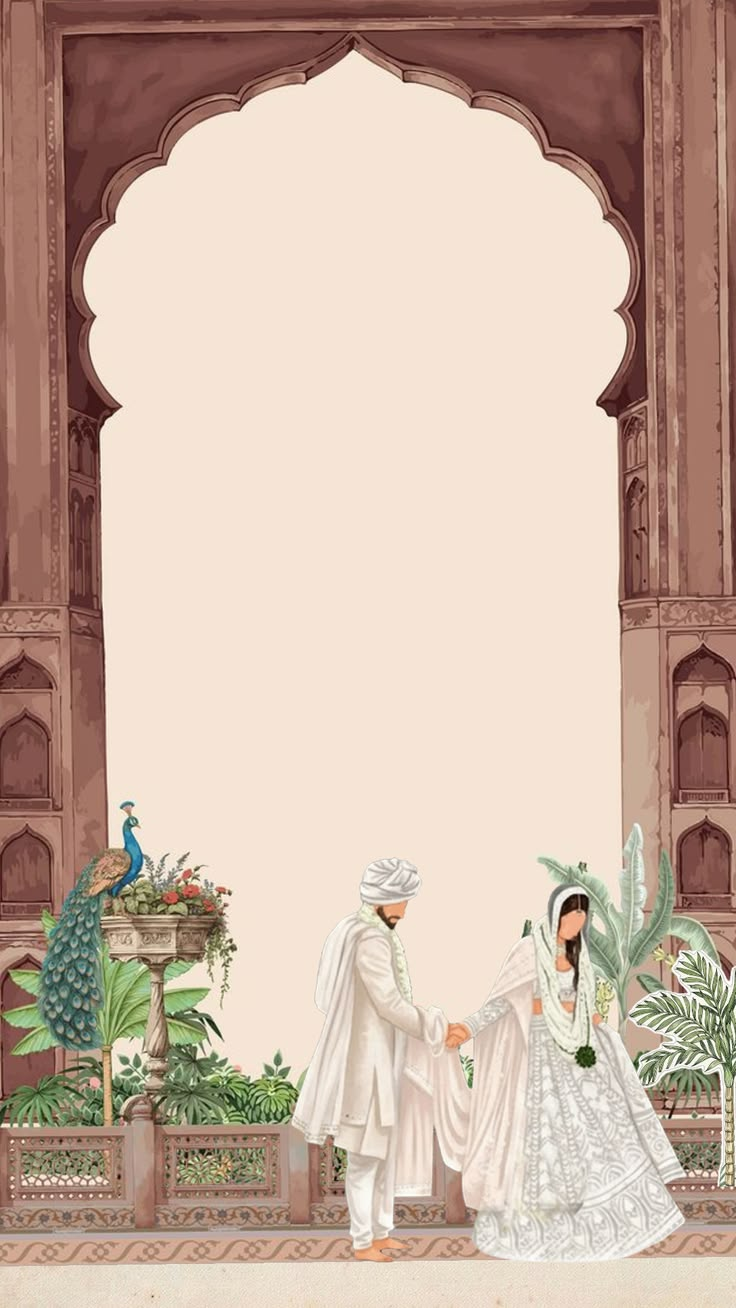
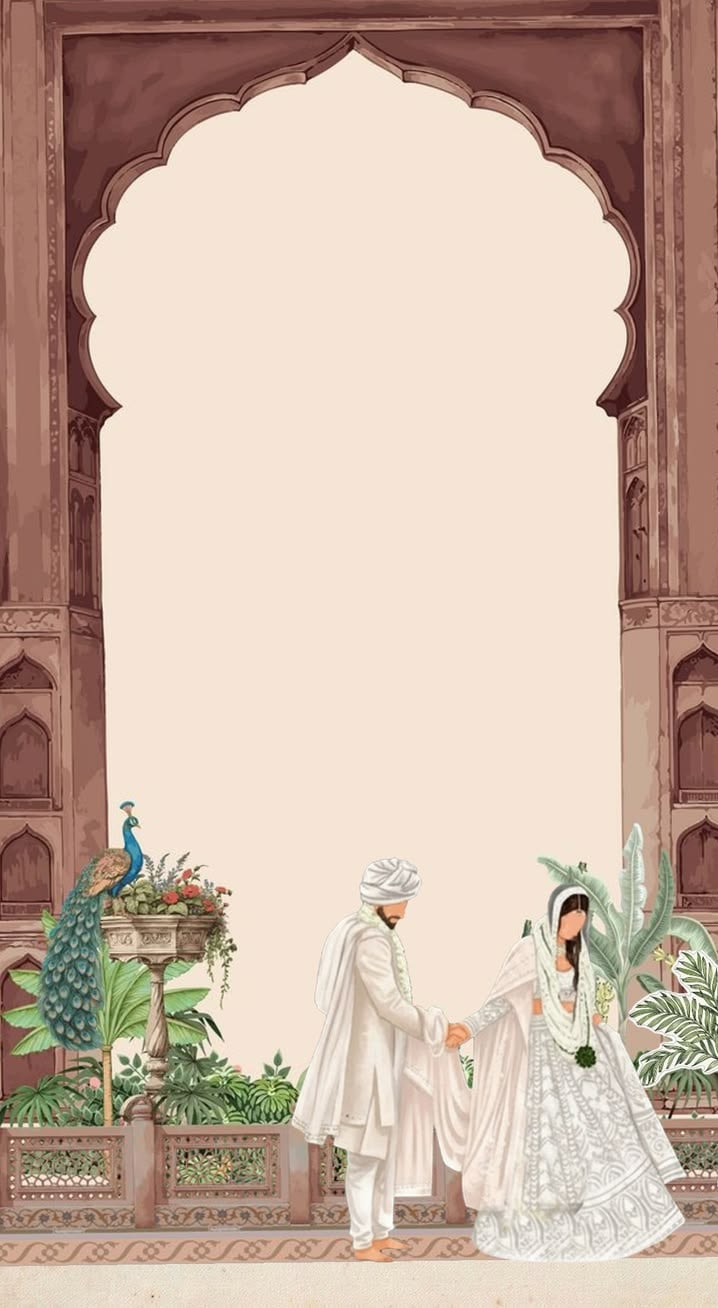
Centre the haveli arch so it no longer looks tilted
The drawing's arch opening sits ~9px left of the image centre, and the
right pillar slice was 6px wider than the left, so the arch drifted one
way while the text drifted the other. The artwork is now cropped
symmetrically around the arch (718px) and both pillar slices are equal,
so the arch, the text and the column share one centre line.

Claude-Session: https://claude.ai/code/session_01ADHonTWJ8jZCw9jaJ57dyS

Changed region(s): [[0.0306, 0.0, 1.0, 0.9786], [0.1226, 0.1223, 0.2145, 0.1835]]

diff --git a/src/style.css b/src/style.css
@@ -939,10 +939,10 @@ html.lenis body {
    and the windows, peacock, garden and couple (bottom 728px) stay intact,
    while a band of plain pillar between them stretches to fit the text. */
 .scene {
-  --s: calc(var(--colw) / 736);
+  --s: calc(var(--colw) / 718); /* artwork cropped symmetric around the arch */
   border-style: solid;
-  border-width: calc(490 * var(--s)) calc(116 * var(--s)) calc(728 * var(--s)) calc(110 * var(--s));
-  border-image-slice: 490 116 728 110 fill;
+  border-width: calc(490 * var(--s)) calc(104 * var(--s)) calc(728 * var(--s));
+  border-image-slice: 490 104 728 fill;
   border-image-repeat: stretch;
   border-image-source: none;
   text-align: center;
